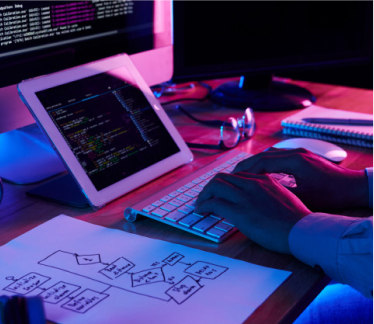
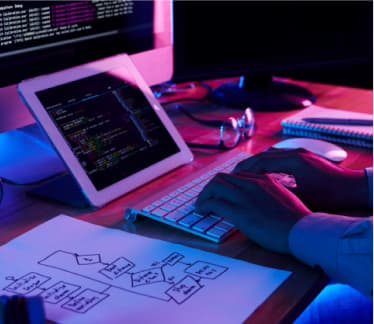
imagenes renderizadas

diff --git a/index.html b/index.html
@@ -48,7 +48,7 @@
             <h1>A que nos dedicamos</h1>
             <table>
                 <tr>
-                    <td><img src="/Imagenes/imagen.jpg" alt="imagen" width="373.16" /></td>
+                    <td><img src="/imagenes/imagen.jpg" alt="imagen" width="373.16" /></td>
                     <td><img src="/Imagenes/imagen (1).jpg" alt="imagen1" width="373.16" /></td>
                     <td><img src="/Imagenes/imagen (2).jpg" alt="imagen2" width="373.16"/></td>
                 </tr>
